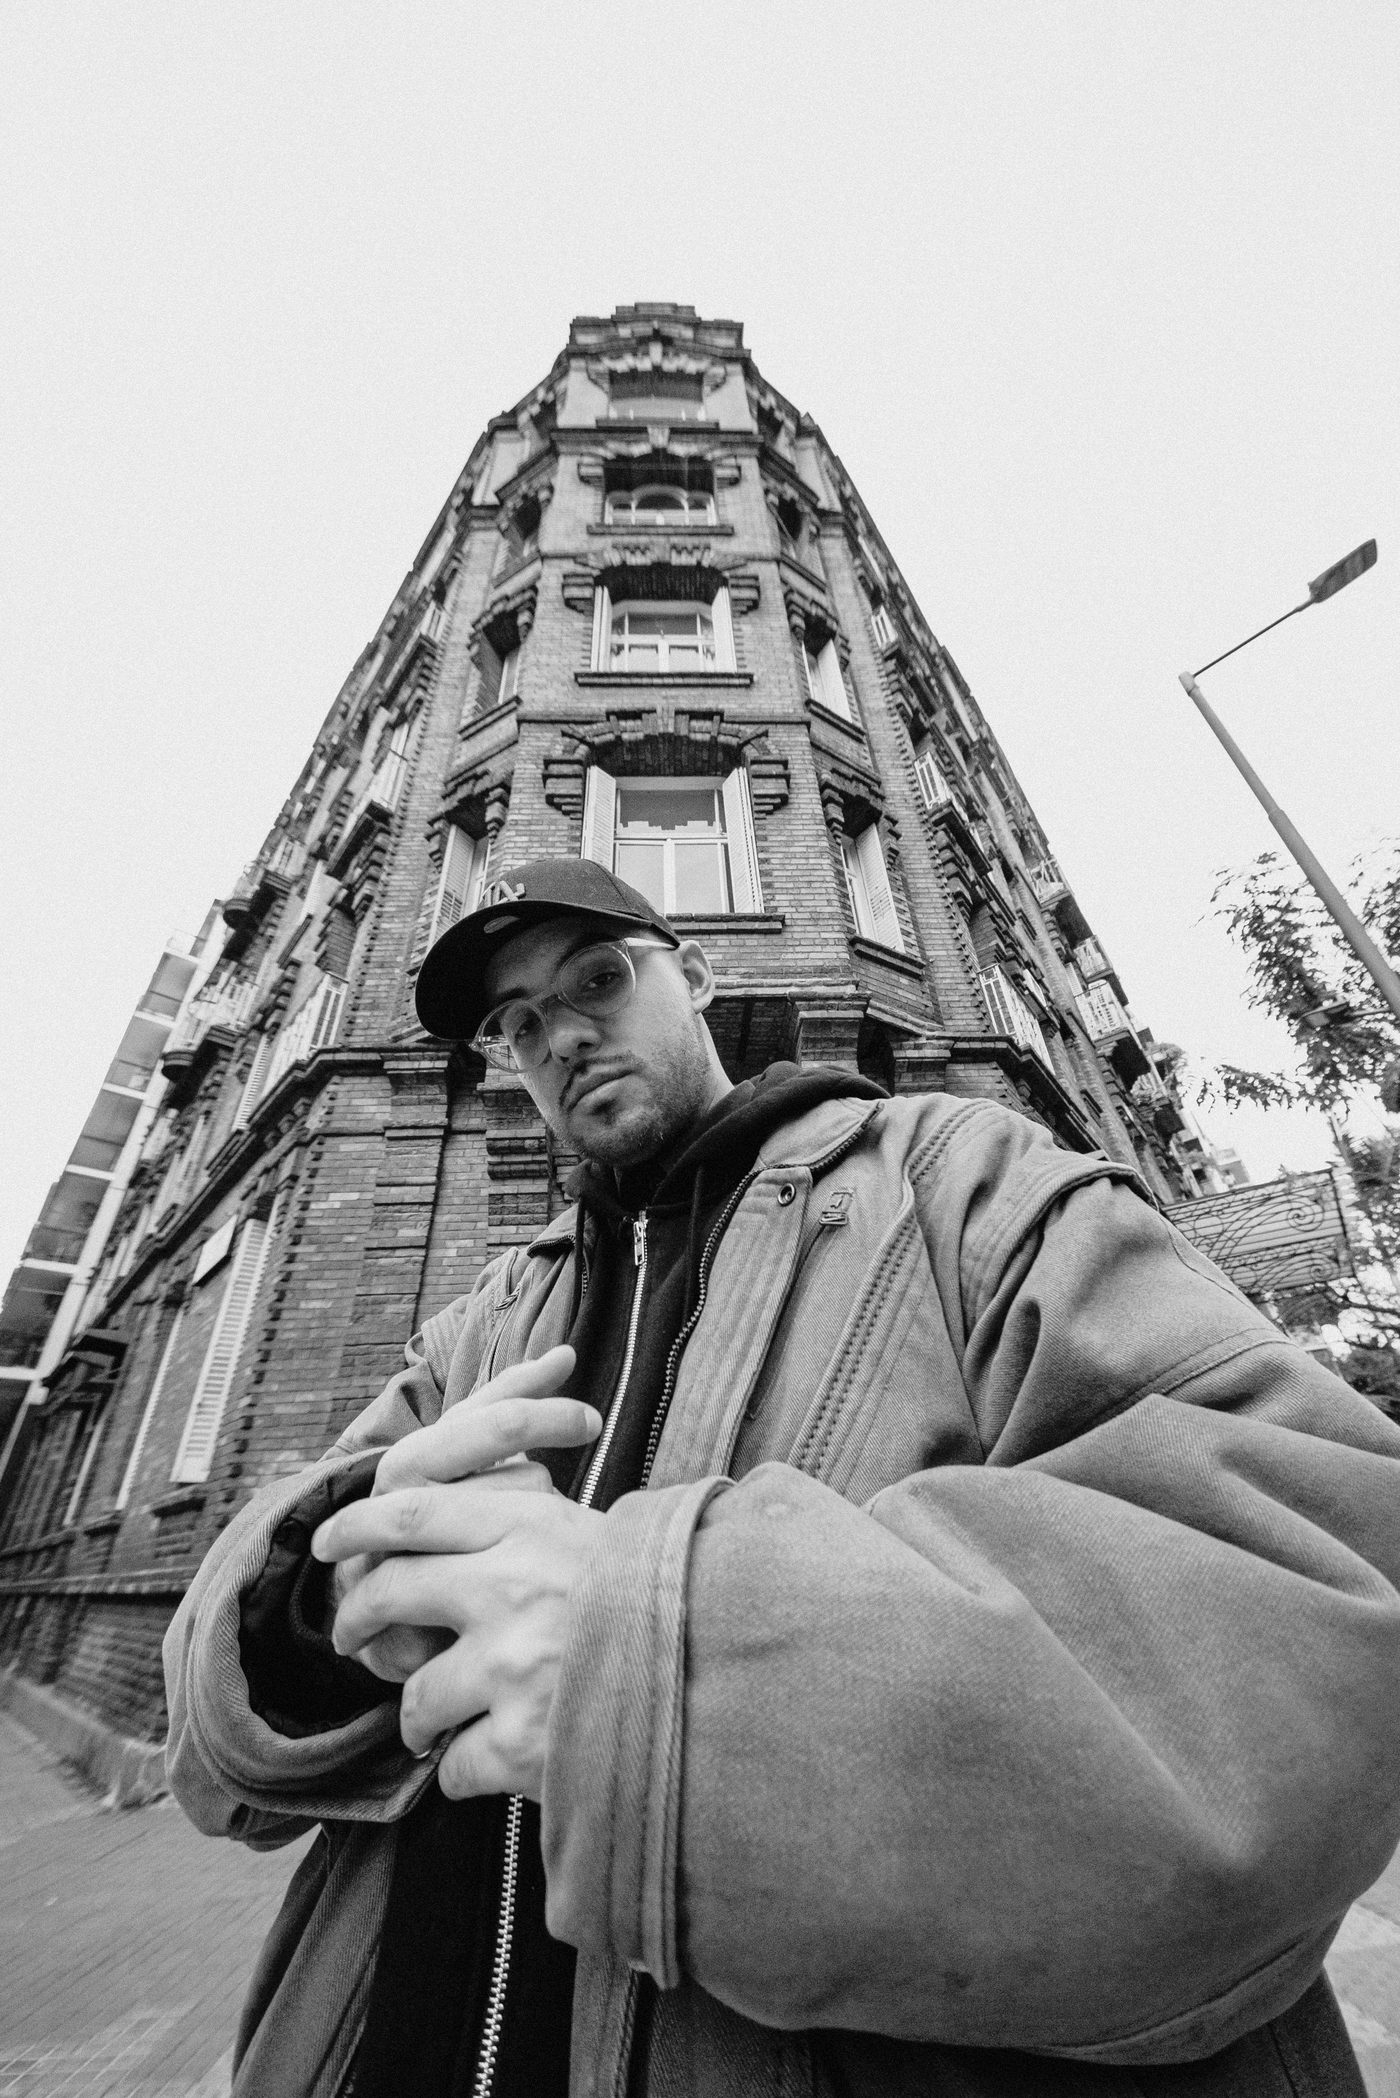
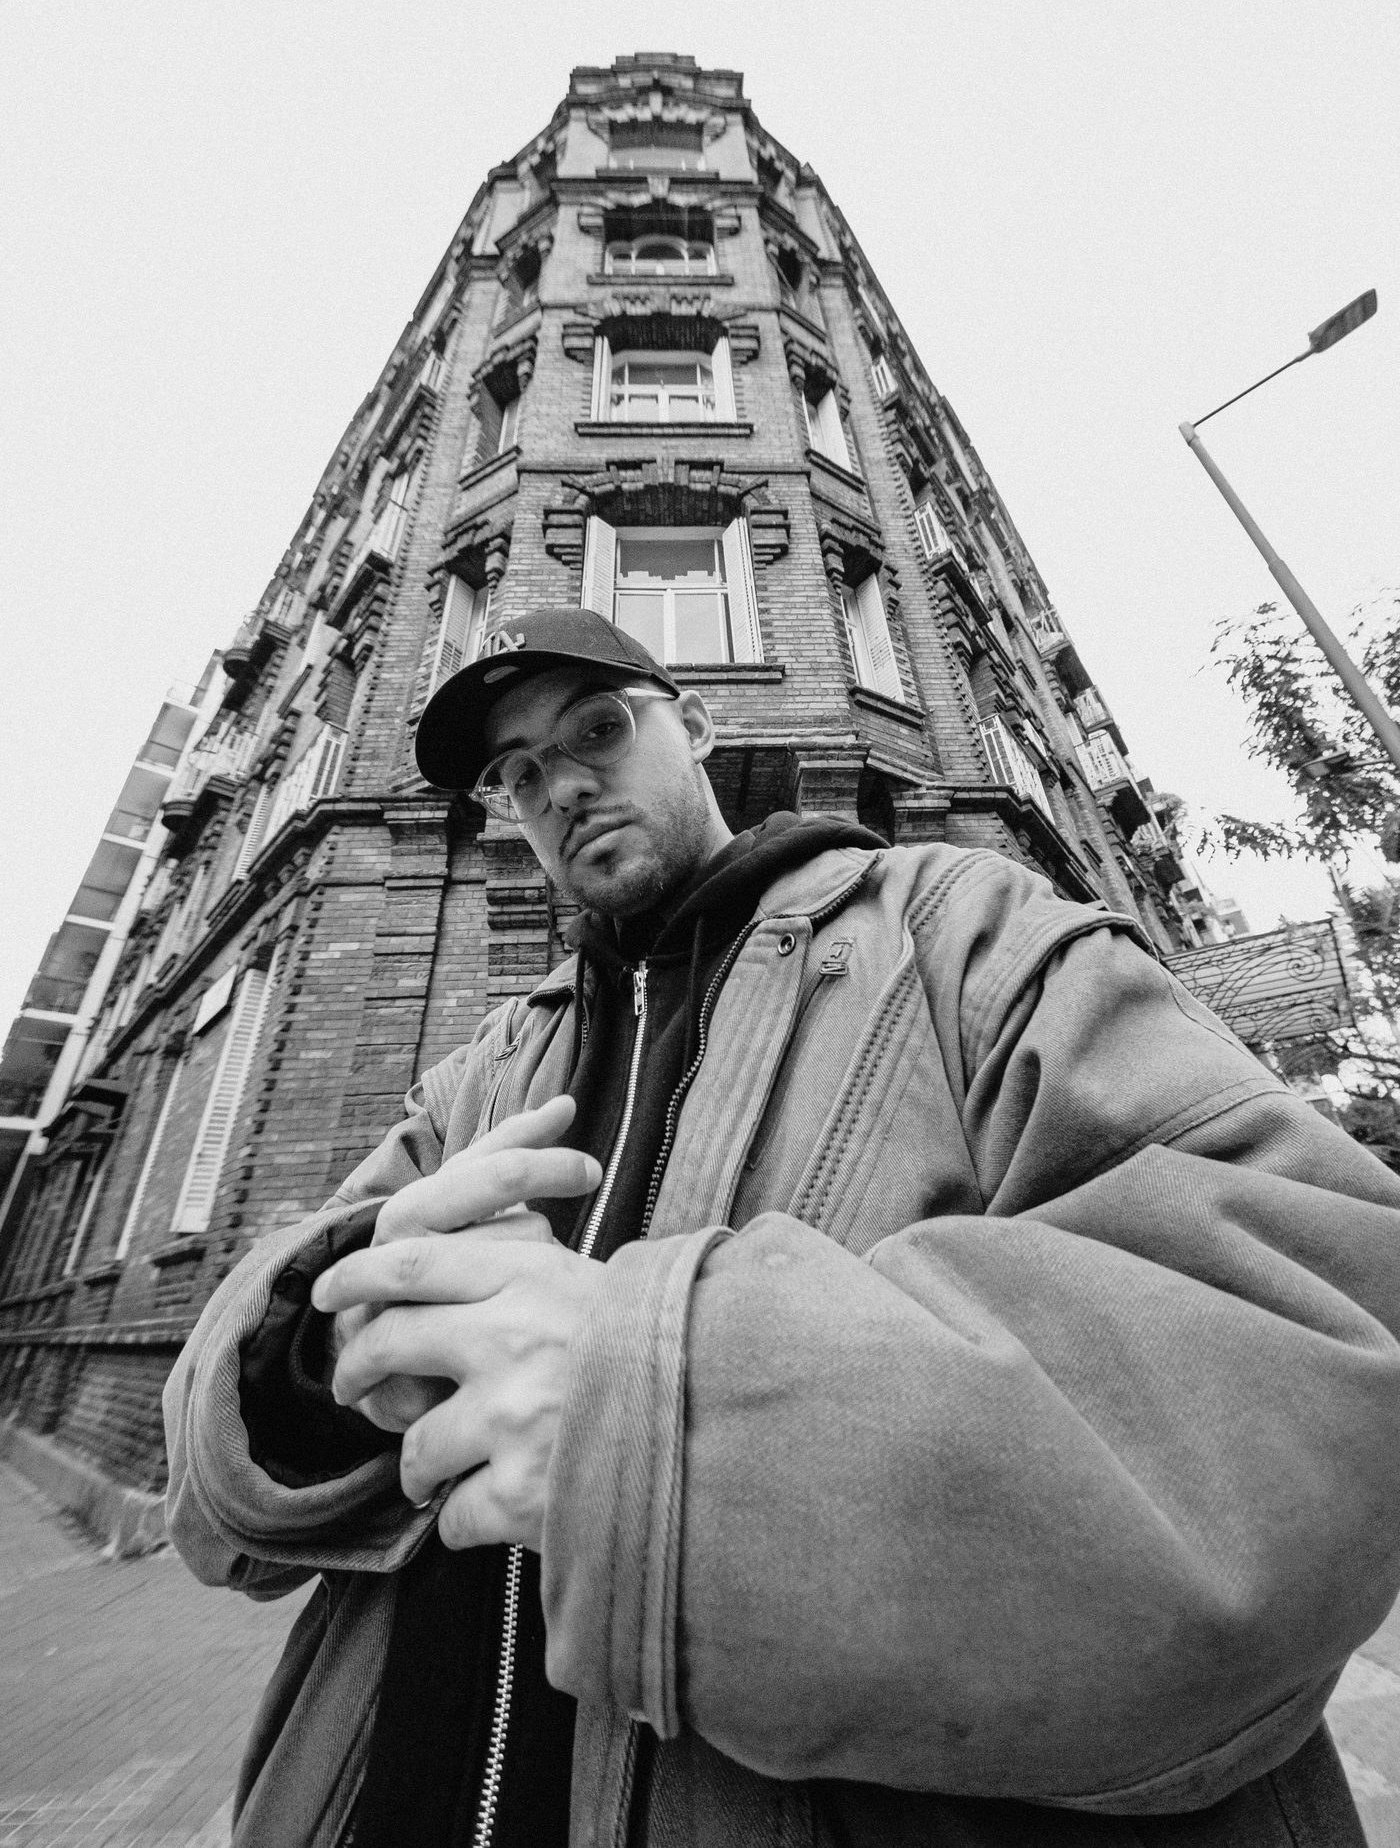
Portada: foto sin línea de corte sobre el edificio y columna adaptada al alto de pantalla
Claude-Session: https://claude.ai/code/session_01PBLPaFnK1hoDvDtR1Q6zf6

diff --git a/index.html b/index.html
@@ -255,12 +255,12 @@ footer{position:relative;overflow:hidden;background:var(--ink);border-top:1px so
   /* portada: logo arriba, a la izquierda el texto y a la derecha la foto vertical entera */
   /* portada escritorio: misma composición que en el teléfono, centrada como un afiche */
   .cover{min-height:0;display:block}
-  .cover>*{width:min(100%,820px);margin-inline:auto}
+  .cover>*{width:min(100%,820px,calc((100svh - 270px) * 1.2 + 96px));margin-inline:auto}
   .cover .top{padding-top:22px}
   .cover .meta{font-size:15px;padding-bottom:22px}
   .cover .grid{display:block}
-  .cover .photo{min-height:0;height:max(520px,calc(100svh - 300px));margin:0 var(--pad)}
-  .cover .photo img{object-position:50% 34%}
+  .cover .photo{min-height:0;height:max(600px,calc(100svh - 270px));margin:0 var(--pad)}
+  .cover .photo img{object-position:50% 0}
   .cover .left{display:none}
   .more span{display:none}
   .cover .cue{display:none}
